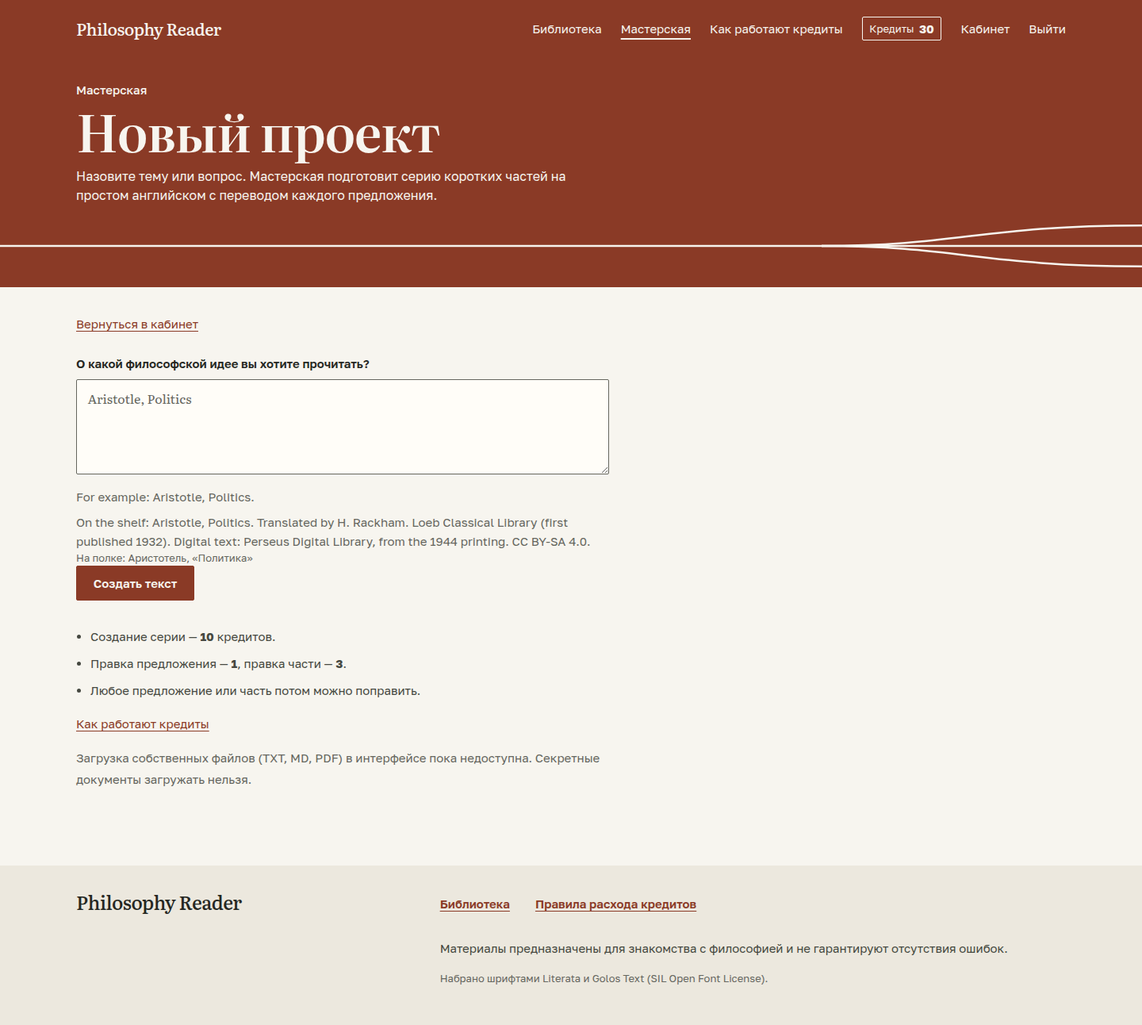
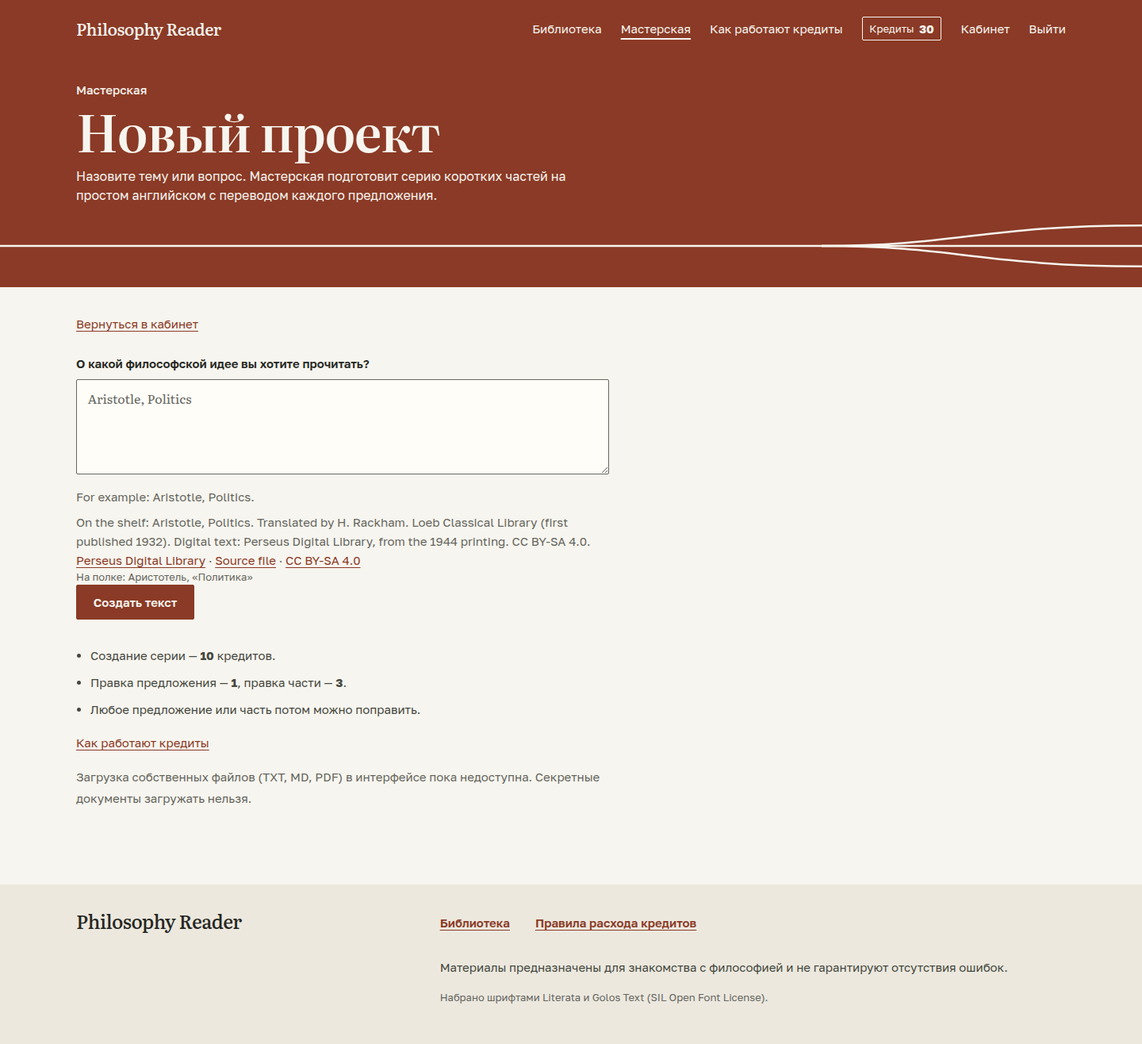
Docs: coverage rule and its known limitation, source links, kept misprints and short chunks in NOTICE
sources-and-rag describes the coverage rule with untranslated words, the frame words, the 64-word cut, the links required by the Perseus licence, the deferred edition fields, and the one control question that the text half leaves below the threshold. NOTICE lists the remaining misprints of the source and the two chunks shorter than 300 words with the reason. Screenshots of the new project page show the links.

diff --git a/docs/spec/docs/sources-and-rag.md b/docs/spec/docs/sources-and-rag.md
@@ -156,9 +156,10 @@ request_hash; новый stage_number не перезаписывает неоп
 Издание описано манифестом `content/sources/<издание>/edition.json`; рядом лежат
 сам файл источника и `NOTICE.md` (лицензия, атрибуция, перечень изменений).
 Манифест — данные: автор и название (с русскими вариантами), переводчик, серия,
-год первого издания и год печати, цифровой издатель, лицензия, адрес с точным
-коммитом, sha256 файла, связанные тексты библиотеки (`related_texts`) и словарь
-запросов. Файл хранится в репозитории и не скачивается при импорте; при
+год первого издания и год печати, цифровой издатель и его адрес, лицензия и её
+адрес, адрес файла с точным коммитом, sha256 файла, связанные тексты библиотеки
+(`related_texts`) и словарь запросов. Адреса принимаются только вида
+`http(s)://`. Файл хранится в репозитории и не скачивается при импорте; при
 несовпадении sha256 импорт отказывается работать.
 
 `manage.py import_shelf_book --manifest <edition.json> [--supersedes <uuid>]
@@ -183,6 +184,16 @@ request_hash; новый stage_number не перезаписывает неоп
 и не трогает эмбеддинги; изменённые в манифесте метаданные издания (атрибуция,
 `related_texts`, словарь запросов) при этом обновляются. Работа и издание
 находятся по устойчивому ключу манифеста.
+
+Издание описывает тот документ, который стоит на полке. Если импортируется
+новая версия файла, а в поиске ещё участвует прежний документ, то поля издания,
+привязанные к файлу, — адрес файла, дата получения, sha256 и словарь запросов —
+не меняются: они ждут в `metadata_json.edition_pending` нового документа и
+переходят в издание в той же транзакции, в которой `index_source` переводит
+этот документ в ready. Так хеш и словарь издания всегда относятся к тексту,
+который сейчас в выдаче. Остальные поля манифеста (переводчик, серия, лицензия,
+связанные тексты) от файла не зависят и обновляются сразу. Повторный импорт
+старого файла, когда на полке уже новая версия, издание не меняет.
 
 Первая книга — «Политика» Аристотеля в переводе Х. Рэкхема (Loeb Classical
 Library, первое издание 1932, цифровой текст Perseus Digital Library по печати
@@ -213,6 +224,14 @@ Library, первое издание 1932, цифровой текст Perseus D
 редакционным документом в состоянии ready, не заменённым другим.
 `book_for_text(slug)` возвращает книгу полки, связанную с текстом библиотеки.
 
+Лицензия Perseus требует ссылку на <https://www.perseus.tufts.edu/> и на
+репозиторий источника. У книги полки (`ShelfBook`) есть адреса
+`digital_publisher_url`, `source_url` (файл в репозитории на точном коммите) и
+`license_url`, а также готовый список `links` — пары «подпись, адрес». Страница
+нового проекта выводит эти ссылки сразу после строки атрибуции; сама строка не
+меняется. Ссылкой становится только адрес `http(s)://`, подписи и адреса
+экранируются.
+
 ### Замена издания
 
 `--supersedes <uuid>` помечает прежний документ заменённым новым. Поиск
@@ -229,25 +248,65 @@ Library, первое издание 1932, цифровой текст Perseus D
 ранжирует фрагменты по BM25, посчитанному только по области поиска:
 
 - английское слово ищется как есть (стоп-слова отбрасывает PostgreSQL);
-- русское слово сопоставляется по основе со словарём запросов издания
-  («гражданином» → citizen, citizenship) и заменяется английскими словами;
-- имя автора и название книги из запроса убираются — в тексте книги их нет;
-- русское слово, которого нет в словаре, в текстовом поиске не участвует и
-  возвращается в списке непереведённых.
+- русское слово сопоставляется со словарём запросов издания («гражданином» →
+  citizen, citizenship) и заменяется английскими словами. Запись словаря — это
+  либо основа, с которой слово начинается (`stems`), либо точные формы
+  (`words`). Основа никогда не ищется в середине слова; для коротких и
+  многозначных основ («закон», «класс», «средн», «жен», «равн», «мир», «общ»)
+  в словаре стоят точные формы, чтобы «законченный», «классический» или
+  «бытие-в-мире» не превращались в law, class и peace;
+- из запроса убирается только имя автора — в тексте книги его нет. Слова
+  названия остаются: «Что такое политика?» — вопрос к книге;
+- служебные слова и слова рамки вопроса («называет», «считает», «говорит»,
+  «критикует», «нужно»; по-английски says, thinks, calls) не ищутся и в расчёт
+  не входят: они говорят, что делает автор, а не о чём вопрос. Оба списка
+  лежат в одном месте, в `apps/sources/lexical.py`, и совпадают только с целым
+  словом; тест проверяет, что ни одно такое слово не переводится словарём;
+- значимое русское слово, которого нет ни в словаре, ни в тексте области
+  поиска, найти нельзя. Оно возвращается в `unmapped_terms` и снижает покрытие
+  так же, как английское слово, которого нет на полке (`missing_terms`);
+- одно английское слово, полученное от двух русских («государство и город» →
+  city), взвешивается один раз;
+- учитываются первые 64 значимых слова запроса, остальное отбрасывается:
+  запрос из двадцати тысяч слов иначе заканчивается в PostgreSQL ошибкой
+  `stack depth limit exceeded`.
 
-Словарь — данные книги в манифесте, а не код. Он не переводит вопрос, а только
-не даёт текстовой половине ослепнуть на русском вопросе; основной путь для
-русского вопроса — векторная половина (многоязычные эмбеддинги).
+Словарь — данные книги в манифесте, а не код (у «Политики» 72 записи; имён
+других философов в нём нет). Он не переводит вопрос, а только не даёт текстовой
+половине ослепнуть на русском вопросе; основной путь для русского вопроса —
+векторная половина (многоязычные эмбеддинги).
 
 В оценках каждого результата, кроме прежних `fts`, `vector`, `combined`, отдаются
-сырые значения: `fts_raw` (BM25), `fts_coverage` (0..1, доля понятий вопроса,
-найденных во фрагменте, с весом по редкости; понятие, которого нет во всей
-области поиска, долю снижает) и `vector_raw` (косинусная близость). Порог
-«опоры в источнике нет» по ним задаёт сценарий вопроса, а не поиск.
+сырые значения: `fts_raw` (BM25), `fts_coverage` и `vector_raw` (косинусная
+близость). Порог «опоры в источнике нет» по ним задаёт сценарий вопроса, а не
+поиск.
+
+`fts_coverage` (0..1) — доля понятий вопроса, найденных во фрагменте, с весом по
+редкости слова. В знаменатель входят все значимые слова вопроса, включая те,
+которых на полке нет: английское слово, не встречающееся в области поиска, и
+русское слово без перевода получают наибольший вес. Поэтому вопрос не по книге,
+в котором случайно есть знакомое слово, получает низкое покрытие: «Что такое
+свобода у Сартра?» — 0.18, «Что такое душа у Платона?» — 0.26 (без этого
+правила было 1.0); «Что такое классическая немецкая философия?» и «Когда фильм
+законченный?» не находят ничего.
+
+Известное ограничение текстовой половины. Имён философов в словаре нет, поэтому
+контрольный вопрос «Почему Аристотель критикует общность имущества у Платона?»
+находит верное место (Politics 2.1262b–1263a на первом месте), но с покрытием
+0.21 — ниже порога 0.5: слово «Платона» весит больше, чем «общность» и
+«имущество» вместе. Для текстовой половины этот вопрос неотличим от «Что такое
+душа у Платона?», и строгим выбран именно этот случай. Вопрос проходит по
+векторной половине — основному пути на сервере; если эмбеддинги недоступны,
+сценарий вопроса честно сообщит, что поиск неполон. Остальные семь контрольных
+вопросов дают ожидаемое место в первых трёх результатах с покрытием 0.83–1.0.
 
 `search_shelf(query, top_n=None)` ищет только по редакционной полке, не зависит
 от пользователя и возвращает `hits` (фрагмент, строка указателя, оценки),
-`vector_available` и `elapsed_ms`. Если эмбеддинги недоступны, текстовая
+`vector_available`, `elapsed_ms`, а также `fts_terms` (что искала текстовая
+половина), `missing_terms` и `unmapped_terms`. `top_n`, равный нулю или
+меньше, означает значение по умолчанию. Если эмбеддинги недоступны, текстовая
 половина работает, а `vector_available = false`: «поиск неполон» отличим от
 «в источнике этого нет». `manage.py search_sources --query "…" [--login]
 [--timing]` без `--login` ищет по полке и печатает указатель и атрибуцию.
+Книга и издание каждого результата читаются одним запросом вместе с
+фрагментами, число запросов к базе не растёт с числом результатов.

diff --git a/docs/IMPLEMENTATION_LOG.md b/docs/IMPLEMENTATION_LOG.md
@@ -1117,3 +1117,74 @@ cee91034107e66c1ad5f37d9861641eea2138d1e2946c0a655ce3914bc74b815.
 
 Следующий этап: PR 3 — вопрос по книге на полке (порог «опоры нет», точная
 страница цитаты, страница нового проекта).
+
+## 20 ноября 2026. PR 2: правки по независимому ревью
+
+### Backend
+
+- Покрытие вопроса (`fts_coverage`): значимое русское слово, которого нет ни в
+  словаре издания, ни в тексте полки, входит в знаменатель с наибольшим весом —
+  так же, как английское слово, которого нет на полке, — и возвращается в
+  `unmapped_terms`. Раньше оно выпадало из расчёта, и вопрос не по книге со
+  случайным знакомым словом получал покрытие 1.0.
+- Словарь «Политики» (72 записи): короткие и многозначные основы заменены
+  точными формами («закон», «класс», «средн», «жен», «равн», «мир», «общ»,
+  «богат», «разум», «спарт», «полис», «правител»); добавлены «управление»,
+  «политика», «сильный», «полезный», «вид/форма». Основа сопоставляется только
+  с началом слова.
+- Из запроса убирается только имя автора; слова названия книги остаются.
+  Служебные слова и слова рамки вопроса («называет», «считает», «говорит»,
+  «критикует», «нужно») — списки в `apps/sources/lexical.py`, совпадение только
+  с целым словом.
+- Учитываются первые 64 значимых слова запроса. Английское слово, полученное
+  от двух русских, взвешивается один раз. `top_n <= 0` — значение по умолчанию.
+- `ShelfBook`: `digital_publisher_url`, `source_url`, `license_url`, `links`.
+  Новое поле `SourceEdition.digital_publisher_url` (миграция `sources.0005`),
+  в манифесте — `edition.digital_publisher_url`; адреса в манифесте
+  принимаются только вида `http(s)://`.
+- Импорт новой версии файла, пока в поиске прежний документ, не меняет адрес
+  файла, дату, sha256 и словарь издания: они ждут в
+  `metadata_json.edition_pending` нового документа и переходят в издание,
+  когда `index_source` переводит его в ready.
+- Поиск читает книгу и издание результатов одним запросом вместе с
+  фрагментами (`select_related`), число запросов не зависит от числа
+  результатов.
+
+### Frontend
+
+- `templates/workshop/create.html`: после строки атрибуции — ссылки на Perseus
+  Digital Library, файл источника в репозитории и лицензию. Строка атрибуции
+  прежняя, CSS и JS не менялись.
+
+### Проверки
+
+- Полный тест-набор: 360 тестов OK (1 ожидаемый провал — дефект ask): 266
+  прежних и 94 в `tests/test_shelf.py`. Сети и платных вызовов нет.
+- По одной текстовой половине на полном файле: «Что такое свобода у Сартра?» —
+  покрытие 0.18; «Что такое душа у Платона?» — 0.26; «Что такое классическая
+  немецкая философия?», «Когда фильм законченный?», «Что такое бытие-в-мире?»
+  — пустая выдача. «Что такое политика?» и "What is politics?" находят
+  фрагменты с покрытием 1.0.
+- Семь из восьми контрольных вопросов: ожидаемое место в первых трёх
+  результатах, покрытие ожидаемого фрагмента 0.83–1.0. Вопросы о Хайдеггере и
+  Канте — пустая выдача.
+- Запрос из 20 000 слов без ограничения заканчивался ошибкой PostgreSQL `stack
+  depth limit exceeded`; с ограничением выполняется за 0.1 с.
+- Страница нового проекта на 390 и 1440 px со ссылками: без горизонтальной
+  прокрутки, консоль пуста; снимки в `docs/screenshots/pr2-shelf/` обновлены.
+
+### Ограничения и открытые вопросы
+
+- Контрольный вопрос «Почему Аристотель критикует общность имущества у
+  Платона?» по текстовой половине находит верное место (Politics 2.1262b–1263a
+  — первое), но с покрытием 0.21, ниже порога 0.5: имён философов в словаре
+  нет, и для текстовой половины он неотличим от «Что такое душа у Платона?».
+  Вопрос проходит по векторной половине; без эмбеддингов сценарий вопроса
+  сообщит, что поиск неполон.
+- «мир», «мира» переводятся как peace; значение «вселенная» текстовая половина
+  не различает.
+- Сохранённые опечатки источника и два фрагмента короче 300 слов (195 и 201)
+  с причинами записаны в `NOTICE.md` издания. `assemblies(for` — метка строки
+  между словом и скобкой: пробелом метка считается только между двумя словами.
+- На сервере перед импортом нужна `migrate` (добавилась `sources.0005`).
+- Не проверено: живые эмбеддинги и всё на сервере.

diff --git a/content/sources/aristotle-politics-rackham/NOTICE.md b/content/sources/aristotle-politics-rackham/NOTICE.md
@@ -44,6 +44,10 @@ Line shown to a reader wherever the book is named or quoted:
 > published 1932). Digital text: Perseus Digital Library, from the 1944
 > printing. CC BY-SA 4.0.
 
+Next to this line the page gives three links, taken from `edition.json`:
+Perseus Digital Library (<https://www.perseus.tufts.edu/>), the source file in
+its GitHub repository (the exact address above) and the licence.
+
 ## What this project changes
 
 The XML file is not edited. The text that the reader's questions are answered
@@ -60,11 +64,34 @@ text:
   by removed notes are closed up;
 - a `<milestone>` standing between two words with no space (154 places, for
   example `that<milestone/>wealth`) is read as the space between them;
-- misprints of the digital text (`educationand`, `necessarys o that`,
-  `for Ihand it on`, `master,the`, `tochastity`) are kept as they are.
+- misprints of the digital text are kept as they are:
+  - words run together or split in the text itself: `educationand`,
+    `necessarys o that`, `for Ihand it on`, `master,the`, `tochastity`;
+  - a title set in `<title>` with no space before the tag, so that the two
+    words meet once the markup is removed: `theEthics` (twice: 4.1295a,
+    7.1332a; in the file `the<title>Ethics</title>`), `theLaws` (7.1336a),
+    `entitledLaw and Order` (5.1306b);
+  - `assemblies(for` (4.1298b): in the file a line milestone stands between
+    the word and the bracket, `assemblies<milestone/>(for`, with no space;
+    the rule above reads a milestone as a space only between two words;
+  - `happy(, but best of all` (5.1314b): an opening bracket that the file
+    never closes.
 
 No correction of the Perseus text is made here, so there is nothing to offer
 back; the misprints above can be reported to the repository.
+
+## Chunks
+
+The derived text is cut into 202 chunks of 300–600 words on sentence
+boundaries, never across a book. Two chunks are shorter than 300 words,
+because a sentence is never cut:
+
+- chunk 195 (`Politics 8.1339b–1340a`, 186 words): the sentence that follows
+  it is 438 words long (it opens chunk 196), and together they would exceed
+  600 words;
+- chunk 201 (`Politics 8.1342b`, 285 words): the end of Book 8. Joined to the
+  chunk before it, it would give 614 words; the sentence boundary nearest to
+  the middle leaves 329 and 285 words.
 
 ## Bekker pages
 
